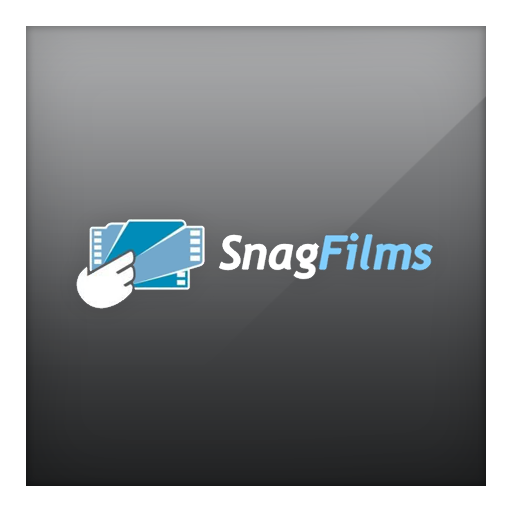
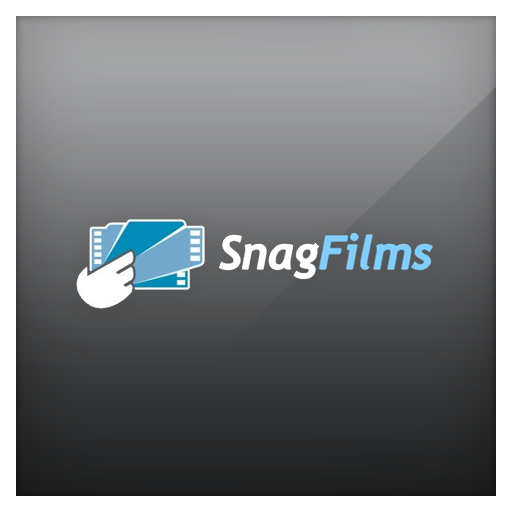
LG key added, art converted to JPEG

Changed region(s): [[0.0312, 0.0312, 0.9688, 0.9688]]

diff --git a/Contents/Code/__init__.py b/Contents/Code/__init__.py
@@ -3,8 +3,6 @@ import re, string, datetime
 NAMESPACE = {'media':'http://search.yahoo.com/mrss/'}
 VIDEO_PREFIX = "/video/snagfilms"
 
-#AMF_PROXY_URL = "http://www.plexapp.com/proxy/BrightcoveAmfProxy.cgi?playerId=%s&videoId=%s"
-
 SEARCH_URL= "http://www.snagfilms.com/films"
 TOPICS_URL = "http://www.snagfilms.com/films/browse/topic/"
 CHANNELS_URL = "http://www.snagfilms.com/films/browse/channel/"
@@ -18,9 +16,9 @@ RECENT_ADDITIONS_FEED = RSS_BASE_URL + "/SnagFilmsRecentAdditions?format=xml"
 
 ####################################################################################################
 def Start():
-  Plugin.AddPrefixHandler(VIDEO_PREFIX, MainMenu, "SnagFilms", "icon-default.png", "art-default.png")
+  Plugin.AddPrefixHandler(VIDEO_PREFIX, MainMenu, "SnagFilms", "icon-default.png", "art-default.jpg")
   Plugin.AddViewGroup("Details", viewMode="InfoList", mediaType="items")
-  MediaContainer.art = R('art-default.png')
+  MediaContainer.art = R('art-default.jpg')
   MediaContainer.title1 = 'SnagFilms'
   DirectoryItem.thumb = R("icon-default.png")
   
@@ -35,7 +33,7 @@ def MainMenu():
     dir.Append(Function(DirectoryItem(Topics, title="Topics")))
     dir.Append(Function(DirectoryItem(Channels, title="Channels")))
     dir.Append(Function(DirectoryItem(AllFilms, title="All Films")))
-    dir.Append(Function(InputDirectoryItem(Search, title="Search ...", thumb=R("search.png"), prompt="Search for films")))
+    dir.Append(Function(InputDirectoryItem(Search, title="Search ...", thumb=R("icon-search.png"), prompt="Search for films")))
     return dir
     
 # Extract details from the RSS feeds
@@ -190,9 +188,9 @@ def Search(sender, query):
     queryData['where'] = 'all'
     queryData['site_id'] = '1'
     queryData['keywords'] = query
-    response = HTTP.Request(SEARCH_URL, queryData)
-    if response != None:
-        items = HTML.ElementFromString(response).xpath('//div[@class="module_content"]')
+
+    try:
+        items = HTML.ElementFromString(SEARCH_URL, queryData).xpath('//div[@class="module_content"]')
         for item in items:
             if len(item.xpath('./div[@class="fleft"]/a')) > 0:
                  title = item.xpath("./div[@class='fleft']/a")[0].get('title')
@@ -200,11 +198,14 @@ def Search(sender, query):
                  image = item.xpath("./div[@class='fleft']/a/img")[0].get('src')
                  summary = item.xpath("./div[@class='text']")[0].text
                  dir.Append(Function(VideoItem(PlayVideo, title=title, summary=summary, thumb=image, subtitle=None), pageUrl=pageUrl))
+    except:
+        pass
+
     return dir
-    
+
 # Extracts the rtmp player and clip from the AMF proxy and redirects
 def PlayVideo(sender, pageUrl):
-    response = HTTP.Request(pageUrl)
+    response = HTTP.Request(pageUrl).content
     response = re.sub("\/\*.+?\*\/", "", str(response), re.DOTALL)
 
     playerId = re.findall("'playerid':'([0-9]+)'", response)[0]
@@ -212,9 +213,6 @@ def PlayVideo(sender, pageUrl):
     Log("PlayerID:"+playerId+" VideoID:"+videoId)
 
     rtmp = AmfRequest(playerId, videoId, 'http://www.snagfilms.com/')
-    #proxyUrl = AMF_PROXY_URL % (playerId, videoId)
-    #Log("ProxyUrl:"+proxyUrl)
-    #rtmp = XML.ElementFromURL(proxyUrl).xpath('/amfProxy/result/message')[0].text
     tokens = rtmp.split('&')
     return Redirect(RTMPVideoItem(tokens[0], tokens[1]))
 
